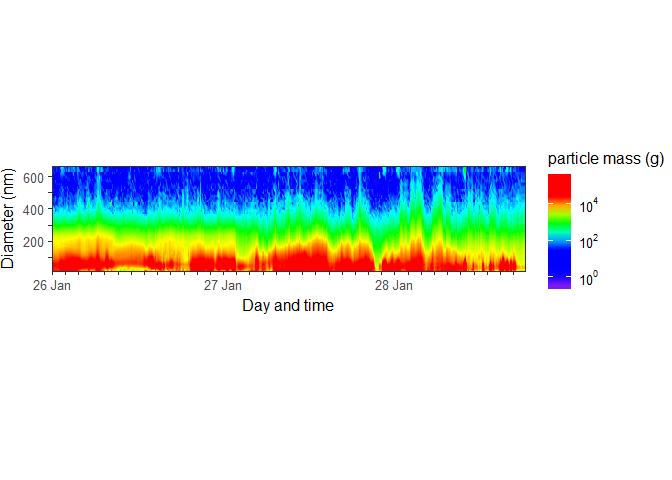
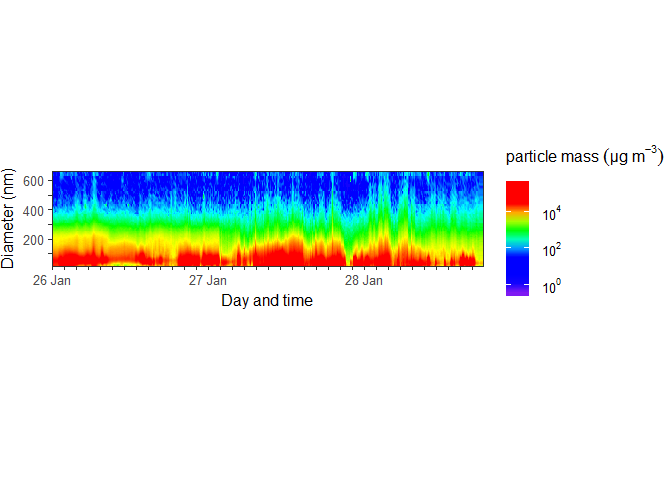
update legend

Changed region(s): [[0.0312, 0.3125, 1.0, 0.6562]]

diff --git a/README.md b/README.md
@@ -74,7 +74,7 @@ smps_plot(prepared_data)
 We can change the legend title, if you have a different input dataset (here it's the same, just for demonstration purposes):
 
 ``` r
-smps_plot(prepared_data, legend_title = "particle mass (g)") 
+smps_plot(prepared_data, legend_title = expression(particle~mass~(μg~m^-3)))
 ```
 
 ![](figures/README-legend-1.png)
